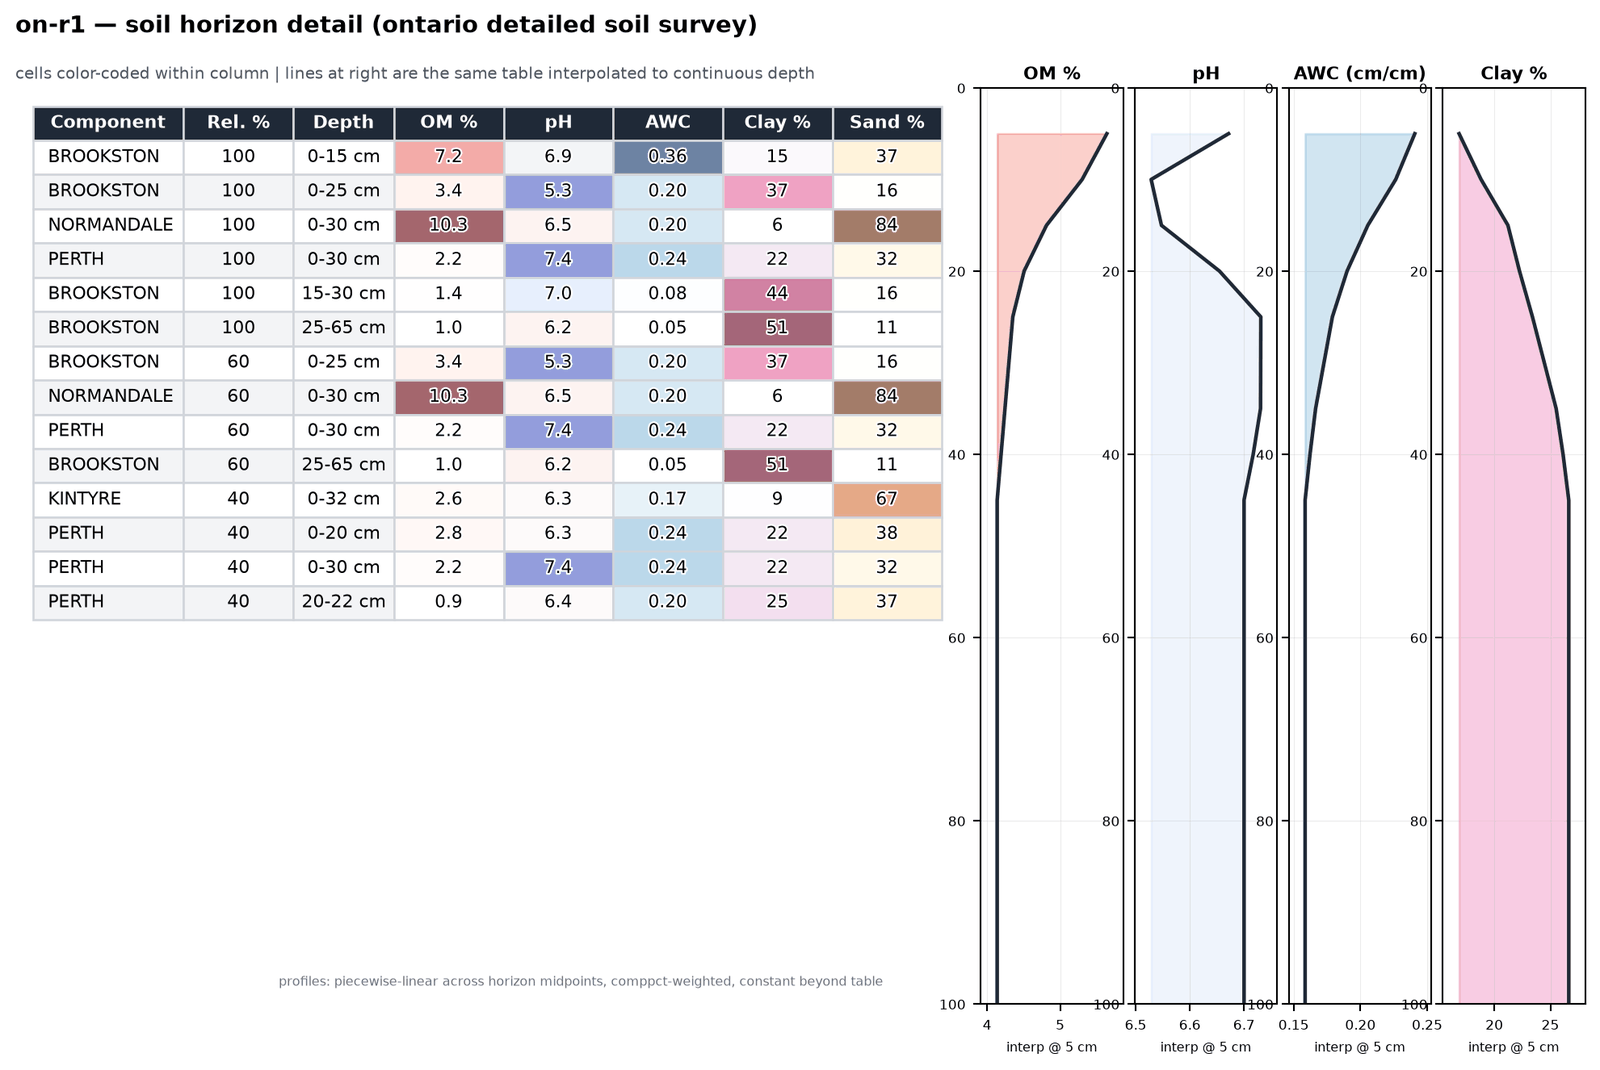
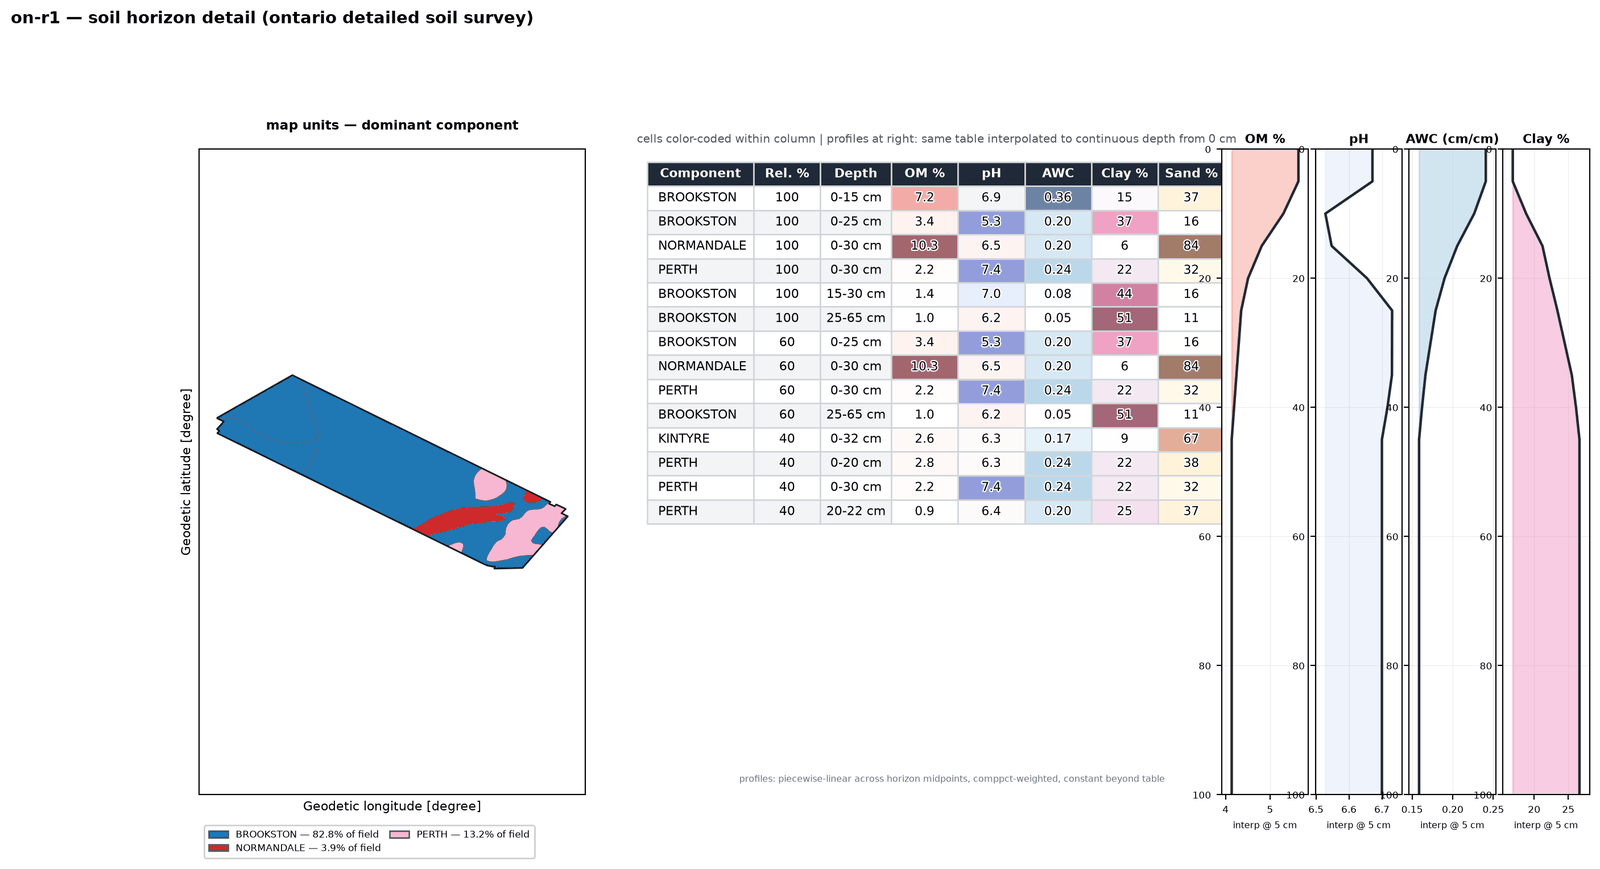
feat(soil): tri-edge percent ladders, 8-attribute weighted maps, 100% texture strip, map-tied horizon tables
- Texture triangle: classic NRCS axis layout — %SAND ticks under the
  base, %CLAY ladder up the right edge, %SILT ladder down the left,
  each with its own bold titled scale; replaces the single-row bottom
  hack. Vision-QC PASS on all three edges incl. gridline consistency.
- Weighted property maps: 8 attributes (adds silt, sand, CEC, bulk
  density) in a 2x4 grid; bottom panel is a 100% sand+silt+clay strip,
  one slice per map unit ordered north->south, width proportional to
  field share — the texture budget walking down the field.
- Interpolated horizon profiles start at the surface (0 cm), constant
  extension of the first measured midpoint (SSURGO interval convention),
  not at the first 5 cm bin centre.
- Horizon figure gains a left panel: field map units colored by
  dominant component with a legend of series + % of field (sums to
  100) — ties the table rows to the ground truth. Legend below the map
  after first-pass QC caught it covering the table.
- Everything still fires via --all-fields in run_farm_pipeline.
README captions updated for all four changes.

Changed region(s): [[0.0, 0.0621, 1.0, 0.9942], [0.0, 0.0, 0.4688, 0.0311], [0.6875, 0.7457, 0.7188, 0.7768]]

diff --git a/my-farm-advisor/data-pipeline/src/scripts/reporting/generate_soil_texture_triangles.py b/my-farm-advisor/data-pipeline/src/scripts/reporting/generate_soil_texture_triangles.py
@@ -211,36 +211,36 @@ def render(csv_path: Path | None, label: str, out: Path, source_note: str = "SSU
                 color="#3f2a26", style="italic",
                 path_effects=[pe.withStroke(linewidth=2.4, foreground="white")])
 
-    # three gridline families + edge tick strips on all three sides
-    import matplotlib.transforms as mtransforms
+    # percent scales on ALL THREE edges — classic NRCS layout:
+    #   % SAND below the base, increasing left -> right
+    #   % CLAY along the RIGHT edge (horizontal clay lines meet it), to the apex
+    #   % SILT along the LEFT edge (silt lines meet it), down to the silt corner
+    sq3 = math.sqrt(3)
     for pct in range(10, 100, 10):
         f = pct / 100.0
-        # sand lines (parallel to silt-clay edge = left edge)
         ax.plot(*zip(_to_xy(0, 1 - f, f), _to_xy(1, 0, 0)), color="#b08a7a", lw=0.3, alpha=0.6)
-        # clay lines (parallel to sand-silt base)
         ax.plot(*zip(_to_xy(f, 0, 1 - f), _to_xy(1, 0, 0)), color="#b08a7a", lw=0.3, alpha=0.6)
-        # silt lines (parallel to clay-sand right edge): baseline (1-f,0) -> left edge (0.5(1-f), .866(1-f))
-        ax.plot([1 - f, 0.5 * (1 - f)], [0, (math.sqrt(3) / 2) * (1 - f)], color="#b08a7a", lw=0.3, alpha=0.6)
-        # sand ticks below base (increasing left->right)
-        ax.plot([f, f], [-0.004, -0.016], color="#3f2a26", lw=0.7)
-        ax.text(f, -0.030, str(pct), fontsize=6, color="#3f2a26", ha="center", va="top")
-        # clay ticks out along left edge (0 at base -> 100 at apex)
-        n = (-math.sqrt(3) / 2, -0.5)  # outward normal of left edge
-        px, py = _to_xy(f, 0, 1 - f)
-        ax.plot([px, px + 0.012 * n[0]], [py, py + 0.012 * n[1]], color="#3f2a26", lw=0.7)
-        ax.text(px + 0.028 * n[0], py + 0.028 * n[1], str(pct), fontsize=6, color="#3f2a26",
+        ax.plot([1 - f, 0.5 * (1 - f)], [0, (sq3 / 2) * (1 - f)], color="#b08a7a", lw=0.3, alpha=0.6)
+        ax.plot([f, f], [-0.004, -0.018], color="#3f2a26", lw=0.8)
+        ax.text(f, -0.034, str(pct), fontsize=6.4, color="#3f2a26", ha="center", va="top")
+        px, py = 1 - f / 2, (sq3 / 2) * f
+        nx, ny = sq3 / 2, -0.5
+        ax.plot([px, px + 0.012 * nx], [py, py + 0.012 * ny], color="#3f2a26", lw=0.8)
+        ax.text(px + 0.030 * nx, py + 0.030 * ny, str(pct), fontsize=6.4, color="#3f2a26",
+                ha="center", va="center", rotation=-60)
+        px, py = (1 - f) / 2, (sq3 / 2) * (1 - f)
+        nx, ny = -sq3 / 2, -0.5
+        ax.plot([px, px + 0.012 * nx], [py, py + 0.012 * ny], color="#3f2a26", lw=0.8)
+        ax.text(px + 0.030 * nx, py + 0.030 * ny, str(pct), fontsize=6.4, color="#3f2a26",
                 ha="center", va="center", rotation=60)
-        # silt ticks as second row below base (100 at left -> 0 at right)
-        ax.plot([1 - f, 1 - f], [-0.040, -0.052], color="#3f2a26", lw=0.7)
-        ax.text(1 - f, -0.066, str(pct), fontsize=6, color="#3f2a26", ha="center", va="top")
 
-    # outer triangle + bold edge titles with direction cues
     ax.add_patch(MplPolygon([_to_xy(0, 1, 0), _to_xy(0, 0, 1), _to_xy(1, 0, 0)],
                             closed=True, fill=False, edgecolor="#3f2a26", lw=1.6))
-    ax.text(0.5, -0.092, "% SAND  \u2192", ha="center", fontsize=9.5, weight="bold", color="#3f2a26")
-    ax.text(0.5, -0.118, "% SILT  \u2190", ha="center", fontsize=9.5, weight="bold", color="#3f2a26")
-    ax.text(1.105, 0.36, "% CLAY  \u2197", fontsize=9.5, weight="bold", color="#3f2a26",
+    ax.text(0.5, -0.108, "% SAND  \u2192", ha="center", fontsize=10, weight="bold", color="#3f2a26")
+    ax.text(1.13, 0.30, "% CLAY  \u2197", fontsize=10, weight="bold", color="#3f2a26",
             rotation=-60, va="center")
+    ax.text(-0.13, 0.30, "% SILT  \u2199", fontsize=10, weight="bold", color="#3f2a26",
+            rotation=60, va="center")
 
     # component points, sized by comppct_r (grid cells: small translucent dots)
     sizes = 6 if grid_note else 18 + comp["comppct_r"] * 7.0
@@ -397,9 +397,59 @@ def render_horizon_table(csv_path: Path, label: str, out: Path, source_note: str
     ).sort_values(["comppct_r", "hzdept"], ascending=[False, True])
     g = g.head(14)
 
-    fig = plt.figure(figsize=(13.2, 0.44 * len(g) + 1.6))
-    gs = gridspec.GridSpec(1, 2, width_ratios=[1.45, 1.0], wspace=0.12)
-    ax_t = fig.add_subplot(gs[0]); ax_t.axis("off")
+    # --- field map units, colored by dominant component, field-share legend ---
+    gj = csv_path.parent / "ssurgo_soil_types.geojson"
+    map_units = None
+    if gj.exists():
+        import geopandas as _gpd
+        _poly = _gpd.read_file(gj)
+        _poly["mukey"] = _poly["mukey"].astype(str)
+        _areas = (_poly.assign(a=_poly.to_crs(6933).geometry.area)
+                        .groupby("mukey")["a"].sum())
+        _d = df.dropna(subset=["comppct_r"]).copy()
+        _d["mukey"] = _d["mukey"].astype(str)
+        _dom = (_d.sort_values("comppct_r", ascending=False)
+                  .groupby("mukey")["compname"].first())
+        _top = _d[_d["hzdept_r"] == _d.groupby(["mukey", "compname"])["hzdept_r"].transform("min")]
+        _top = _top.dropna(subset=["comppct_r"])
+        _top = _top[_top["comppct_r"] > 0]
+        _top["share"] = _top["comppct_r"] / _top.groupby("mukey")["comppct_r"].transform("sum")
+        _top["field_share"] = _top["mukey"].map(_areas) * _top["share"]
+        _fs = _top.groupby("compname")["field_share"].sum()
+        _tot = float(_fs.sum())
+        if _tot > 0:
+            map_units = (_poly, _dom, _fs / _tot * 100.0)
+
+    _ratios = ([1.05] if map_units is not None else []) + [1.45, 1.0]
+    fig = plt.figure(figsize=(13.2 + (3.4 if map_units is not None else 0),
+                              0.44 * len(g) + 1.6))
+    gs = gridspec.GridSpec(1, len(_ratios), width_ratios=_ratios, wspace=0.12)
+    idx_t = 1 if map_units is not None else 0
+    ax_t = fig.add_subplot(gs[idx_t]); ax_t.axis("off")
+
+    if map_units is not None:
+        import matplotlib.patches as mpatches
+        from matplotlib import colormaps as _cm
+        _poly, _dom, _pct = map_units
+        _names = sorted(_dom.dropna().unique())
+        _cyc = _cm.get_cmap("tab20")
+        _col = {n: _cyc(i / max(len(_names), 1) % 1.0 if len(_names) > 1 else 0.1)
+                for i, n in enumerate(_names)}
+        _poly = _poly.assign(comp=_poly["mukey"].map(_dom),
+                             c=_poly["mukey"].map(_dom).map(_col))
+        ax_m = fig.add_subplot(gs[0])
+        _poly.plot(ax=ax_m, color=_poly["c"].fillna("#d1d5db"),
+                   linewidth=0.4, edgecolor="#4b5563")
+        _poly.dissolve().boundary.plot(ax=ax_m, color="#111827", lw=1.1)
+        ax_m.set_xticks([]); ax_m.set_yticks([])
+        ax_m.set_title("map units — dominant component", fontsize=8.6, weight="bold", pad=13)
+        _hand = [mpatches.Patch(facecolor=_col[n], edgecolor="#4b5563",
+                                label=f"{n} — {float(_pct.get(n, 0)):.1f}% of field")
+                 for n in _names if n in _col]
+        ax_m.set_aspect("equal", adjustable="datalim")
+        ax_m.legend(handles=_hand, fontsize=6.4, loc="upper left",
+                    bbox_to_anchor=(0.0, -0.04), ncol=2, frameon=True, framealpha=0.95,
+                    borderpad=0.5, labelspacing=0.4, columnspacing=0.9)
     cols = ["Component", "Rel. %", "Depth", "OM %", "pH", "AWC", "Clay %", "Sand %"]
     num_cols = {3: ("om", plt.get_cmap("Reds"), 0.6), 4: ("ph", plt.get_cmap("coolwarm_r"), 0.55),
                 5: ("awc", plt.get_cmap("Blues"), 0.6), 6: ("clay", plt.get_cmap("PuRd"), 0.6),
@@ -439,22 +489,22 @@ def render_horizon_table(csv_path: Path, label: str, out: Path, source_note: str
             cell.set_facecolor("#f3f4f6")
         if col == 0:
             cell.set_text_props(ha="left")
-    ax_t.set_title(
+    fig.suptitle(
         f"{label} — soil horizon detail ({source_note.lower()})",
-        fontsize=11, weight="bold", loc="left", pad=26,
+        fontsize=11, weight="bold", x=0.02, ha="left", y=1.045,
     )
-    ax_t.text(0, 1.01, "cells color-coded within column | lines at right are the same table "
-              "interpolated to continuous depth", transform=ax_t.transAxes,
+    ax_t.text(0, 1.01, "cells color-coded within column | profiles at right: same table "
+              "interpolated to continuous depth from 0 cm", transform=ax_t.transAxes,
               fontsize=7.4, color="#4b5563")
 
     # --- interpolated profiles (comppct-weighted, 5 cm bins) ---
-    bins = np.arange(5, 101, 5.0)
+    bins = np.arange(0, 101, 5.0)  # profile starts at the surface (0 cm)
     panels = [("OM %", _interp_profile(df, "om_r", bins), plt.get_cmap("Reds")),
               ("pH", _interp_profile(df, "ph1to1h2o_r", bins), plt.get_cmap("coolwarm_r")),
               ("AWC (cm/cm)", _interp_profile(df, "awc_r", bins), plt.get_cmap("Blues")),
               ("Clay %", _interp_profile(df, "claytotal_r", bins), plt.get_cmap("PuRd"))]
     have = [(n, y, c) for n, y, c in panels if y is not None]
-    gs2 = gridspec.GridSpecFromSubplotSpec(1, len(have), subplot_spec=gs[1], wspace=0.08)
+    gs2 = gridspec.GridSpecFromSubplotSpec(1, len(have), subplot_spec=gs[-1], wspace=0.08)
     for i, (name, y, cmap) in enumerate(have):
         ax = fig.add_subplot(gs2[i])
         ax.plot(y, bins, color="#1f2937", lw=1.7)
@@ -479,6 +529,10 @@ _PROPERTY_SPECS = [
     ("ph1to1h2o_r", "pH (1:1 H2O)", "coolwarm_r"),
     ("awc_r", "Available water capacity", "Blues"),
     ("claytotal_r", "Clay %", "PuRd"),
+    ("silttotal_r", "Silt %", "YlGnBu"),
+    ("sandtotal_r", "Sand %", "Oranges"),
+    ("cec7_r", "CEC (cmol/kg)", "viridis"),
+    ("dbthirdbar_r", "Bulk density", "cividis"),
 ]
 
 
@@ -501,6 +555,7 @@ def render_property_map(csv_path: Path, label: str, out: Path, source_note: str 
         return
     poly = gpd.read_file(gj)
     poly["mukey"] = poly["mukey"].astype(str)
+    areas = poly.assign(a=poly.to_crs(6933).geometry.area).groupby("mukey")["a"].sum()
 
     panels = []
     for col, title, cmap in _PROPERTY_SPECS:
@@ -515,8 +570,30 @@ def render_property_map(csv_path: Path, label: str, out: Path, source_note: str 
     if not panels:
         return
 
-    fig, axes = plt.subplots(1, len(panels), figsize=(3.3 * len(panels) + 1.4, 3.9))
-    axes = np.atleast_1d(axes)
+    # --- texture composition strip data: one slice per map unit, ordered
+    # north -> south, width = that unit's share of the field; the three
+    # texture fractions stack to 100 % so you watch sand/silt/clay trade off
+    # as you walk down the field ---
+    tex = top.dropna(subset=["claytotal_r", "silttotal_r", "sandtotal_r"])
+    strip = None
+    if not tex.empty and areas is not None:
+        tsub = tex.assign(w=tex["share"])
+        agg = {c: (tsub["w"] * tsub[c]).groupby(tsub["mukey"]).sum() /
+                  tsub.groupby("mukey")["w"].sum() for c in
+               ("sandtotal_r", "silttotal_r", "claytotal_r")}
+        tdf = pd.DataFrame(agg).dropna()
+        cen = poly.set_index("mukey").to_crs(4326).representative_point()
+        tdf = tdf.join(cen.x.rename("lon")).join(cen.y.rename("lat"))
+        tdf = tdf.join(areas.rename("area").astype(float)).dropna()
+        tdf = tdf.sort_values("lat", ascending=False)  # north at left
+        strip = tdf
+    ncol = min(4, len(panels))
+    nrow = int(np.ceil(len(panels) / ncol))
+    fig = plt.figure(figsize=(3.3 * ncol + 1.4, 3.9 * nrow + (1.7 if strip is not None else 0)))
+    gs = fig.add_gridspec(nrow + (1 if strip is not None else 0), ncol,
+                          height_ratios=[3.5] * nrow + ([1.4] if strip is not None else []),
+                          hspace=0.52, wspace=0.30)
+    axes = np.array([fig.add_subplot(gs[r, c]) for r in range(nrow) for c in range(ncol)])
     for ax, (title, cmap, p) in zip(axes, panels):
         p.plot(column="v", ax=ax, cmap=cmap, legend=True, missing_kwds={"color": "#e5e7eb"},
                linewidth=0.3, edgecolor="#9ca3af",
@@ -527,10 +604,37 @@ def render_property_map(csv_path: Path, label: str, out: Path, source_note: str 
         ax.set_title(f"{title}\nfield mean {mean:.2f}" if not np.isnan(mean) else title,
                      fontsize=8.6, weight="bold", pad=13)
         ax.set_xticks([]); ax.set_yticks([])
+        ax.set_xlabel(""); ax.set_ylabel("")  # graticule labels only crowd the grid
     fig.suptitle(f"{label} — whole-field weighted soil properties (topsoil, {source_note.lower()})",
                  fontsize=11, weight="bold", x=0.02, ha="left", y=1.075)
+    for axx in axes[len(panels):]:
+        axx.axis("off")
+    if strip is not None and not strip.empty:
+        ax_s = fig.add_subplot(gs[nrow, :])
+        total = float(strip["area"].sum())
+        x = 0.0
+        for _mu, row in strip.iterrows():
+            wseg = float(row["area"]) / total * 100.0
+            s, si, c = (float(np.clip(row[k], 0, 100)) for k in
+                        ("sandtotal_r", "silttotal_r", "claytotal_r"))
+            tot = s + si + c
+            s, si, c = (v / tot * 100 for v in (s, si, c))
+            ax_s.bar(x, s, width=wseg * 0.985, bottom=0, color="#d9a066", linewidth=0)
+            ax_s.bar(x, si, width=wseg * 0.985, bottom=s, color="#9aa5b1", linewidth=0)
+            ax_s.bar(x, c, width=wseg * 0.985, bottom=s + si, color="#b23a2f", linewidth=0)
+            x += wseg
+        ax_s.set_xlim(0, 100); ax_s.set_ylim(0, 100)
+        ax_s.set_xlabel("across the field, north \u2192 south   (each slice = one map unit, "
+                        "width \u221d that unit's share of the field)", fontsize=8)
+        ax_s.set_ylabel("% of texture\n(sum = 100)", fontsize=8)
+        ax_s.tick_params(labelbottom=False)
+        handles = [plt.Rectangle((0, 0), 1, 1, color=cc)
+                   for cc in ("#d9a066", "#9aa5b1", "#b23a2f")]
+        ax_s.legend(handles, ["sand", "silt", "clay"], fontsize=7.5, ncol=3,
+                    loc="upper center", bbox_to_anchor=(0.5, 1.35), frameon=False)
     fig.text(0.02, 0.005, "map-unit polygons weighted by their component mix — the area-weighted "
-             "field number, shown as a surface", fontsize=6.8, color="#4b5563")
+             "field number, shown as a surface; texture strip ordered by latitude, north at left",
+             fontsize=6.8, color="#4b5563")
     out.parent.mkdir(parents=True, exist_ok=True)
     fig.savefig(out, dpi=185, bbox_inches="tight", facecolor="white")
     plt.close(fig)

diff --git a/README.md b/README.md
@@ -87,14 +87,14 @@ national atlases where they do, and the global 250 m floor everywhere:
 | SSURGO (US) | Ontario DSS (CA) | Soil Atlas raster cells (AU) | SoilGrids 250 m cells (BR) |
 | --- | --- | --- | --- |
 | ![ia triangle](my-farm-advisor/data-pipeline/examples/soil-maps/output/ia-r1_texture_triangle.png) | ![on triangle](my-farm-advisor/data-pipeline/examples/soil-maps/output/on-r1_texture_triangle.png) | ![au triangle](my-farm-advisor/data-pipeline/examples/soil-maps/output/au-r4_texture_triangle.png) | ![br triangle](my-farm-advisor/data-pipeline/examples/soil-maps/output/br-r1_texture_triangle.png) |
-| Every pin = one mukey×component: **series name + % of the field** (map-unit polygon area × within-unit component share), exact-class duplicates merged, labels collision-placed, star = the area-weighted field mean (loam, clay 26 / silt 40 / sand 33). Canonical 12-class geometry from the CRAN `soiltexture` package | The Ontario survey speaks the same schema — same renderer, same triangle | The triangle as a **derivation** for gridded sources: every 100 m atlas cell inside the boundary is one point (30 displayed max), star = cell-weighted mean | The global floor too: SoilGrids sand/silt/clay cells of a Cerrado field → sandy clay loam mean. Four provenance levels, one classifier |
+| Every pin = one mukey×component: **series name + % of the field** (map-unit polygon area × within-unit component share), exact-class duplicates merged, labels collision-placed, star = the area-weighted field mean (loam, clay 26 / silt 40 / sand 33). Full percent ladders on **all three edges** — % SAND under the base, % CLAY up the right, % SILT down the left — each with its own bold titled axis. Canonical 12-class geometry from the CRAN `soiltexture` package | The Ontario survey speaks the same schema — same renderer, same triangle | The triangle as a **derivation** for gridded sources: every 100 m atlas cell inside the boundary is one point (30 displayed max), star = cell-weighted mean | The global floor too: SoilGrids sand/silt/clay cells of a Cerrado field → sandy clay loam mean. Four provenance levels, one classifier |
 
 **Whole-field weighted property maps — the area-weighted field number, drawn as a surface:**
 
 | Iowa (SSURGO) | Ontario (DSS) |
 | --- | --- |
 | ![ia weighted](my-farm-advisor/data-pipeline/examples/soil-maps/output/ia-r1_weighted_property_map.png) | ![on weighted](my-farm-advisor/data-pipeline/examples/soil-maps/output/on-r1_weighted_property_map.png) |
-| Each map-unit polygon colored by **its component mix's topsoil value** (comppct-weighted within the unit): OM, pH, AWC, clay as continuous surfaces instead of dominant-component tiles — the weighted mean printed on every panel | Same schema, same math: Ontario census of Brookston/Perth/Kintyre weighted averages rendered per polygon |
+| 8 attributes — OM, pH, AWC, clay, silt, sand, CEC, bulk density — each map-unit polygon colored by **its component mix's topsoil value** (comppct-weighted within the unit), weighted mean printed per panel; below them a **100 % sand+silt+clay strip** across map units ordered north → south, width ∝ field share — watch the texture trade off as you walk down the field | Same schema, same math: Ontario census of Brookston/Perth/Kintyre, eight surfaces + the same texture strip |
 
 **Horizon detail — the rows behind every map, triangle and weighted panel above.**
 All of it — property maps, triangles, horizon tables, interpolated profiles — fires
@@ -105,7 +105,7 @@ triangle for raster providers):
 | US — SSURGO horizons | Canada — ON-DSS horizons |
 | --- | --- |
 | ![Iowa horizon table](my-farm-advisor/data-pipeline/examples/soil-maps/output/ia-r1_horizon_table.png) | ![Ontario horizon table](my-farm-advisor/data-pipeline/examples/soil-maps/output/on-r1_horizon_table.png) |
-| Cells color-coded within column; at right the same table **interpolated to continuous depth** (piecewise-linear across horizon midpoints, comppct-weighted, 5 cm bins, 0–100 cm) — the classic SSURGO interval interpolation, honest about being constant beyond measured table | Same schema, same renderer: Ontario series (Brookston, Perth, Normandale, Kintyre) with real horizon splits and the same interpolated profiles |
+| Left: the field itself — map units colored by **dominant component**, legend lists every series with its % of field area (sums to 100) — so the table rows tie straight to where they sit. Middle: color-coded horizon table. Right: the same table **interpolated to continuous depth** (piecewise-linear across horizon midpoints, comppct-weighted, 5 cm bins, starting at 0 cm) — the classic SSURGO interval interpolation, honest about being constant beyond measured | Same schema, same renderer: Ontario series (Brookston 82.8 %, Perth 13.2 %, Normandale 3.9 % of field) with real horizon splits, the same map, and profiles from the surface down |
 
 ### Terrain derivatives — ready the moment the DEM lands
 
